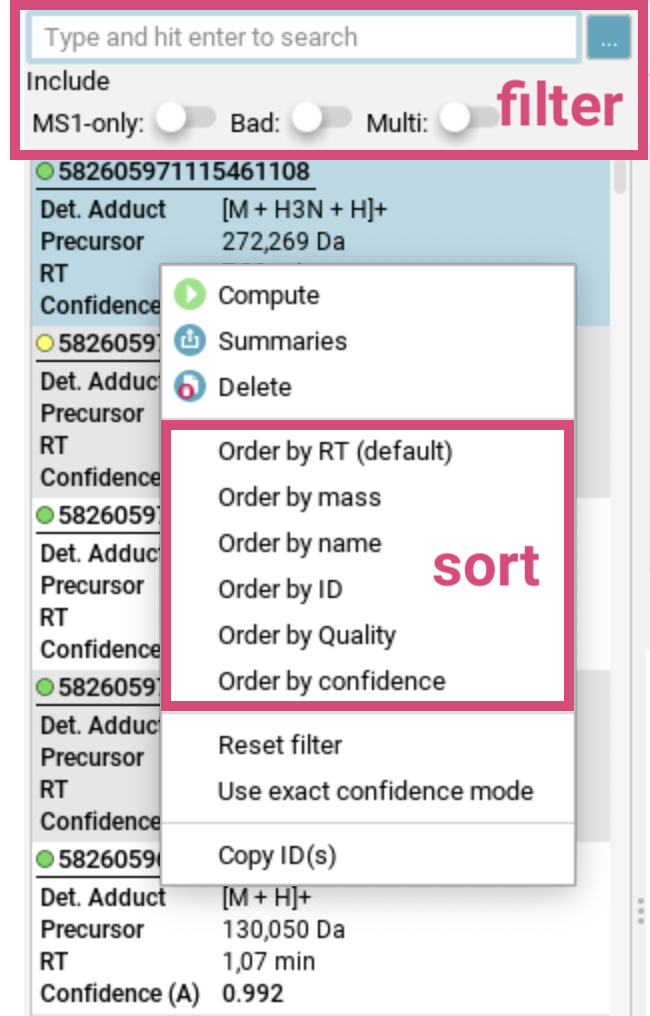
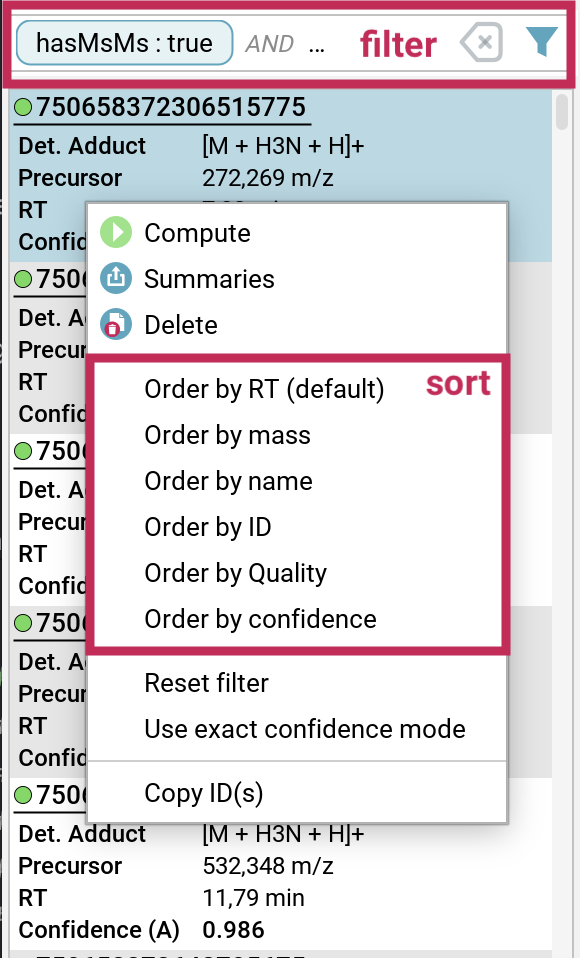
SIRIUS 6.5 new features

diff --git a/docs/_pages/gui.md b/docs/_pages/gui.md
@@ -70,17 +70,31 @@ For a quick start, you can also watch our [SIRIUS Short Course Tutorial Series i
 
 ## Data import {#data-import}
 
-You can import `.ms`, `.mgf`, Agilent's `.cef`, `.mzml` and `.mzxml` files using the `Import` button or by drag-and-drop. 
+You can import `.mzml` or `.mzxml` files, as well as `.ms`, `.mgf`, and Agilent's `.cef` files using the `Import` button or by drag-and-drop. 
 SIRIUS will automatically extract all relevant attributes (such as MS level, ionization, and precursor mass)
-from the file. 
-When importing multiple `.mzml` (or `.mzxml`) at once, SIRIUS will ask you if it should align them.
-When importing a [peak list file]({{ "/io/#peak-lists" | relative_url }}) containing a molecular formula, select `Ignore Formulas` if you would like to do the molecular formula annotation using SIRIUS.
+from the file. When importing a [peak list file]({{ "/io/#peak-lists" | relative_url }}) containing a molecular formula, select `Ignore Formulas` if you would like to do the molecular formula annotation using SIRIUS.
 
 For more information on supported file formats, refer to the [Input]({{ "/io/#input/" | relative_url }}) section and watch the [Tutorial on Data Import & Preprocessing](https://www.youtube.com/watch?v=Begq5bqg_lw).
 
-[//]: # (## Sorting features, filtering features and changing displayed confidence score mode)
+### Importing LCMS runs {#lcms-import}
 
-### Sort and filter {#sort-filter}
+When importing multiple `.mzml` (or `.mzxml`) at once, an import dialog will open. You can choose whether you want the LC/MS runs to be aligned and merged <span style="color:#d40f57">**[1]**</span>. Also, you can specify the type for each LC/MS run <span style="color:#d40f57">**[2]**</span>. Run types are used for blank/background subtraction:
+- **Sample:** Contains compounds of interest
+- **Blank:** Defines background for background subtraction
+- **Pooled QC:** Used for alignment but not for fold change computation
+
+{% capture fig_img %}
+![Foo]({{ "/assets/images/import.png" | relative_url }})
+{% endcapture %}
+
+<figure style="max-width: 500px;">
+  {{ fig_img | markdownify | remove: "<p>" | remove: "</p>" }}
+  <figcaption>Import dialog for LCMS runs.</figcaption>
+</figure>
+
+LC-MS runs are [pre-processed automatically]({{ "/io/#lcms-runs" | relative_url }}): SIRIUS performs feature detection and alignment using MS/MS spectra, assigns adducts and in-source losses to features via adduct detection, and [screens the raw data for strong polyfluorination signatures]({{ "/methods-background/#pfas-detection" | relative_url }}).
+
+## Sort and filter {#sort-filter}
 
 To sort the feature list, use right-click to open the <span style="color:#d40f57">**[sort]**</span> dialog below.
 
@@ -90,18 +104,22 @@ You can sort aligned features by retention time (RT), mass, name, ID or confiden
 this dialog, you can select the confidence mode (approximate or exact) to be displayed and 
 used for sorting. For more details, see the [confidence modes]({{ "/methods-background/#confidence-score-modes" | relative_url }}) section.
 
-The displayed feature list is already filtered by quality, i.e., features containing only MS1 spectra, features with bad quality and multimeric features are hidden. Use the switches on top of the feature list to unhide. 
+<img src="{{ "/assets/images/filter-search.png" | relative_url }}">
 
-The feature list can further be refined by clicking the filter button (three dots to the right of the search field) to open the filter dialog:
+By default, the feature list is filtered to hide MS1-only, poor-quality, and multimeric features <span style="color:#d40f57">**[1]**</span>. To view all features, clear the default filter <span style="color:#d40f57">**[2]**</span>; you can restore it anytime in the [`Filter configuration` dialog]({{"/gui/#filter-dialog" | relative_url}}) <span style="color:#d40f57">**[7]**</span>.
+For fine-grained filter control, enter criteria directly into the search field <span style="color:#d40f57">**[3]**</span> or use the `Filter configuration` dialog. As you type, auto-suggestions will appear <span style="color:#d40f57">**[4]**</span>, along with syntax instructions inside the search bar. You can invert your filter  <span style="color:#d40f57">**[6]**</span> to display non-matching features, or copy your current query to the clipboard <span style="color:#d40f57">**[5]**</span>.
+
+### Filter configuration dialog {#filter-dialog}
 
 <img src="{{ "/assets/images/filter-collage.png" | relative_url }}">
 
 - In the `Input` tab <span style="color:#d40f57">**[1]**</span>, aligned features can be filtered by mass range and retention time range, as well as by specific detected adducts. 
-- In the `Data Quality` tab <span style="color:#d40f57">**[2]**</span>, you can refine the preset quality filter.
-- In the `Results` tab <span style="color:#d40f57">**[3]**</span>, you can filter for confidence score range, specific element constraints in either the neutral molecular formula or precursor formula,
+- In the `Fold Change` tab <span style="color:#d40f57">**[2]**</span>, you can hide signals that don't exceed a set threshold (e.g., 2x the blank level), effectively eliminating background noise and instrument. This filter requires [sample type assignment]({{"/gui/#lcms-import" | relative_url}}).
+- In the `Data Quality` tab <span style="color:#d40f57">**[3]**</span>, you can refine the preset quality filter.
+- In the `Results` tab <span style="color:#d40f57">**[4]**</span>, you can filter for confidence score range, specific element constraints in either the neutral molecular formula or precursor formula,
  as well as by detected lipid classes. If structure database results are available, you can filter for hits in specific structure databases.  `Candidates to check` allows you to specify the number of top candidates to consider.
 
-For all filters, you can also choose to invert the filter, and whether you want to delete all **non**-matching compounds.
+If required, you can restore the default filter options <span style="color:#d40f57">**[5]**</span>. For all filters, you can also choose to invert the filter <span style="color:#d40f57">**[6]**</span>, and whether you want to delete all **non**-matching compounds <span style="color:#d40f57">**[7]**</span>.
 
 ## Custom structure databases {#custom-databases}
 
@@ -283,13 +301,14 @@ Learn more about [molecular formula identification with SIRIUS]({{"/methods-back
   <figcaption>Global settings for computation.</figcaption>
 </figure>
 
-Set the general parameters that define the characteristics of your mass spectrometry data, particularly concerning the instrument used and the expected mass accuracy <span style="color:#d40f57">**[A]**</span>. In the `Instrument` field, you can choose `Q-TOF`, `Orbitrap` or `FT-ICR`.
+Set the general parameters that define the characteristics of your mass spectrometry data, particularly concerning the instrument used and the expected mass accuracy <span style="color:#d40f57">**[A]**</span>. In the `Instrument` field, you can choose `Q-TOF`, `Orbitrap` or `Q-TOF EAD`.
 The choice of instrument affects only a few parameters,
 primarily the allowed mass deviation. If your instrument is not among these options,
 select `Q-TOF` as default. You can  change the maximum allowed mass deviation, ensuring that
 SIRIUS only considers molecular formulas with mass deviations below
 the specified ppm threshold. For masses below 200 Da, the allowed mass deviation is
 $(200 \cdot \frac{ppm_{max}}{10^6})$.
+The fragmentation tree scoring for `Q-TOF EAD` does not penalize radical losses.
 
 
 The set of **fallback adducts** <span style="color:#d40f57">**[B]**</span> will be used for all features for which no adducts were detected during preprocessing (or prior external annotation). Using the `enforce` option, you can even enforce to consider the selected adducts for all features (in addition to the detected adducts). [The "base ionization" of the detected adduct will be considered by default.]({{"/io/#lcms-runs" | relative_url}}) Refrain from selecting all adducts as fallback adducts, as multiple testing inflates the chance of errors. [Learn more about adduct handling here]({{"/adducts/" | relative_url }}). 

diff --git a/docs/_pages/methods.md b/docs/_pages/methods.md
@@ -22,6 +22,27 @@ These workflows follow a certain hierarchy, and cannot be freely combined. For e
   <figcaption>SIRIUS workflow dependencies.</figcaption>
 </figure>
 
+## Automated PFAS and special element detection {#pfas-detection}
+_De novo_ formula search space grows super-polynomially with the number of allowed elements.
+Expanding the alphabet beyond CHNOPS causes a combinatorial explosion, increasing computation time and false-positive rates.
+We use machine learning to reliably predict the presence of specific elements.
+This approach detects elements with characteristic stable isotopes (e.g., Cl, Br, S) and even identifies polyfluorination, as extensive hydrogen-to-fluorine substitutions significantly alter the mass defect of the observed isotopologues.
+
+Per- and polyfluoroalkyl substances (PFAS) are synthetic compounds characterized by carbon chains bonded to fluorine. The carbon-fluorine (C-F) bond makes them exceptionally stable “forever chemicals”. Due to their unique mass defects and lack of comprehensive spectral libraries, PFAS remain notoriously difficult to annotate. 
+
+Specialized PFAS detection approaches often do not account for the complex background of non-fluorinated compounds present in
+environmental or biological samples and thus suffer from high false-positive rates. 
+In contrast, while general-purpose annotation approaches usually filter out high-fluorine formulas to save computation time.
+SIRIUS automatically detects strong polyfluorination signatures directly from the data, dynamically enabling fluorine for _de novo_ formula annotation only when plausible. 
+
+**PFAS detection strategy in SIRIUS:**
+1. **Fluorine element prediction:** A transformer-based neural network trained on millions of simulated patterns accurately detects fluorinated compounds by integrating mass defects with isotope patterns.
+2. **Homologous series:** SIRIUS scans LC-MS data for repeating fixed mass shifts (e.g., CF2) and validates these series using MS/MS spectral cosine similarity to ensure structural relatedness. High-confidence, isotope-based PFAS predictions are then systematically propagated along these homologue series.
+
+Both trigger an expansion of the molecular formula search space to include high-fluorine candidates typically excluded by standard filters.
+
+Once a compound is flagged, fluorine is enabled for its de novo formula annotation. SIRIUS applies its core fragmentation tree approach, leveraging machine-learned fragments and losses that span diverse compound classes—not just PFAS. This guarantees that a compound is only annotated as PFAS if it is objectively the best hypothesis, seamlessly integrating PFAS screening into broad non-targeted metabolomics. You can use the [feature filter]({{ "/gui/#sort-filter" | relative_url }}) to view only PFAS-flagged features.
+
 
 ## Spectral library matching {#spectral-library-search}
 
@@ -193,6 +214,9 @@ restrictions: Namely, "pull-ups" and "parallelograms".
    lose H<sub>2</sub>O followed by CO<sub>2</sub>, **but also** 
    CO<sub>2</sub> followed by H<sub>2</sub>O. SIRIUS will always choose
    one order for such fragmentation reactions, as this is the only valid way to model the fragmentation as a tree.
+
+Different from CID, Electron-Activated Dissociation (EAD) uses precisely tuned electron energies to fragment a molecule's core backbone without stripping off fragile functional groups.
+The fragmentation tree scoring for EAD does not penalize radical losses.
 
 We have integrated support for experimental setups, such as MS<sup>E</sup>,
 MS<sup>all</sup> and All Ion Fragmentation, where isotope peaks and

diff --git a/docs/_pages/news.md b/docs/_pages/news.md
@@ -3,6 +3,31 @@ permalink: /news/
 title: "What's new in SIRIUS"
 ---
 
+## What's new in SIRIUS 6.5.3 {#SIRIUS-653}
+[Read the full changelog (2026-XX-XX) here.]({{ "/changelog/#" | relative_url }})
+
+<img src="{{ '/assets/features/PFAS.png' | relative_url }}" alt="SIRIUS feature: PFAS detection" style="float: left; margin-right: 20px; width: 200px; max-width: 30%;">
+[**PFAS detection strategy:**]({{ "/methods-background/#pfas-detection" | relative_url }}) Integration of a specialized PFAS detection strategy as part of the pre-processing to merge PFAS detection with general small molecule annotation. Neural network-based fluorine prediction and homologous series detection trigger an expansion of the molecular formula search space to include high-fluorine candidates typically excluded by standard filters.
+<div style="clear: both;"></div>
+
+<img src="{{ '/assets/features/reaction_sketcher.png' | relative_url }}" alt="SIRIUS feature: PFAS detection" style="float: left; margin-right: 20px; width: 200px; max-width: 30%;">
+[**Reaction Workflows & Sketcher:**]({{ "/gui/#reaction-workflows" | relative_url }}) 
+Generate transformation products to extend the search space by applying custom reactions. You can create a workflow of chemical reactions to be applied to your custom structure databases. Moreover, you can define your own chemical reactions using the Reaction Sketcher.
+<div style="clear: both;"></div>
+
+<img src="{{ '/assets/features/search_filter.png' | relative_url }}" alt="SIRIUS feature: Faster search and filter" style="float: left; margin-right: 20px; width: 200px; max-width: 30%;">
+[**Faster search and filter:**]({{ "/gui/#sort-filter" | relative_url }}) Search and filter results faster, giving you fine-grained control over criteria like confidence ranges, PFAS tags, executed annotation methods, and more.
+<div style="clear: both;"></div>
+
+<img src="{{ '/assets/features/EAD.png' | relative_url }}" alt="SIRIUS feature: New scoring for EAD data" style="float: left; margin-right: 20px; width: 200px; max-width: 30%;">
+[**Scoring for EAD data:**]({{ "/gui/#global-config" | relative_url }}) Electron-Activated Dissociation (EAD) uses precisely tuned electron energies to fragment a molecule's core backbone without stripping off fragile functional groups. We introduce a new fragmentation tree scoring that does not penalize radical losses. 
+<div style="clear: both;"></div>
+
+<img src="{{ '/assets/features/sample-type.png' | relative_url }}" alt="SIRIUS feature: Assign Sample Types to LCMS Runs" style="float: left; margin-right: 20px; width: 200px; max-width: 30%;">
+[**Assign Sample Types to LCMS Runs:**]({{ "/gui/#lcms-import" | relative_url }})  We have introduced sample groups to streamline data comparison, starting with automated blank subtraction. You can now use the filter panel to hide signals from background noise and instrument contamination. Custom group definition and advanced comparisons will follow in future updates.
+<div style="clear: both;"></div>
+
+
 ## What's new in SIRIUS 6.3.4 {#SIRIUS-634}
 [Read the full changelog (2026-03-21) here.]({{ "/changelog/#634-2026-03-21" | relative_url }})
 
